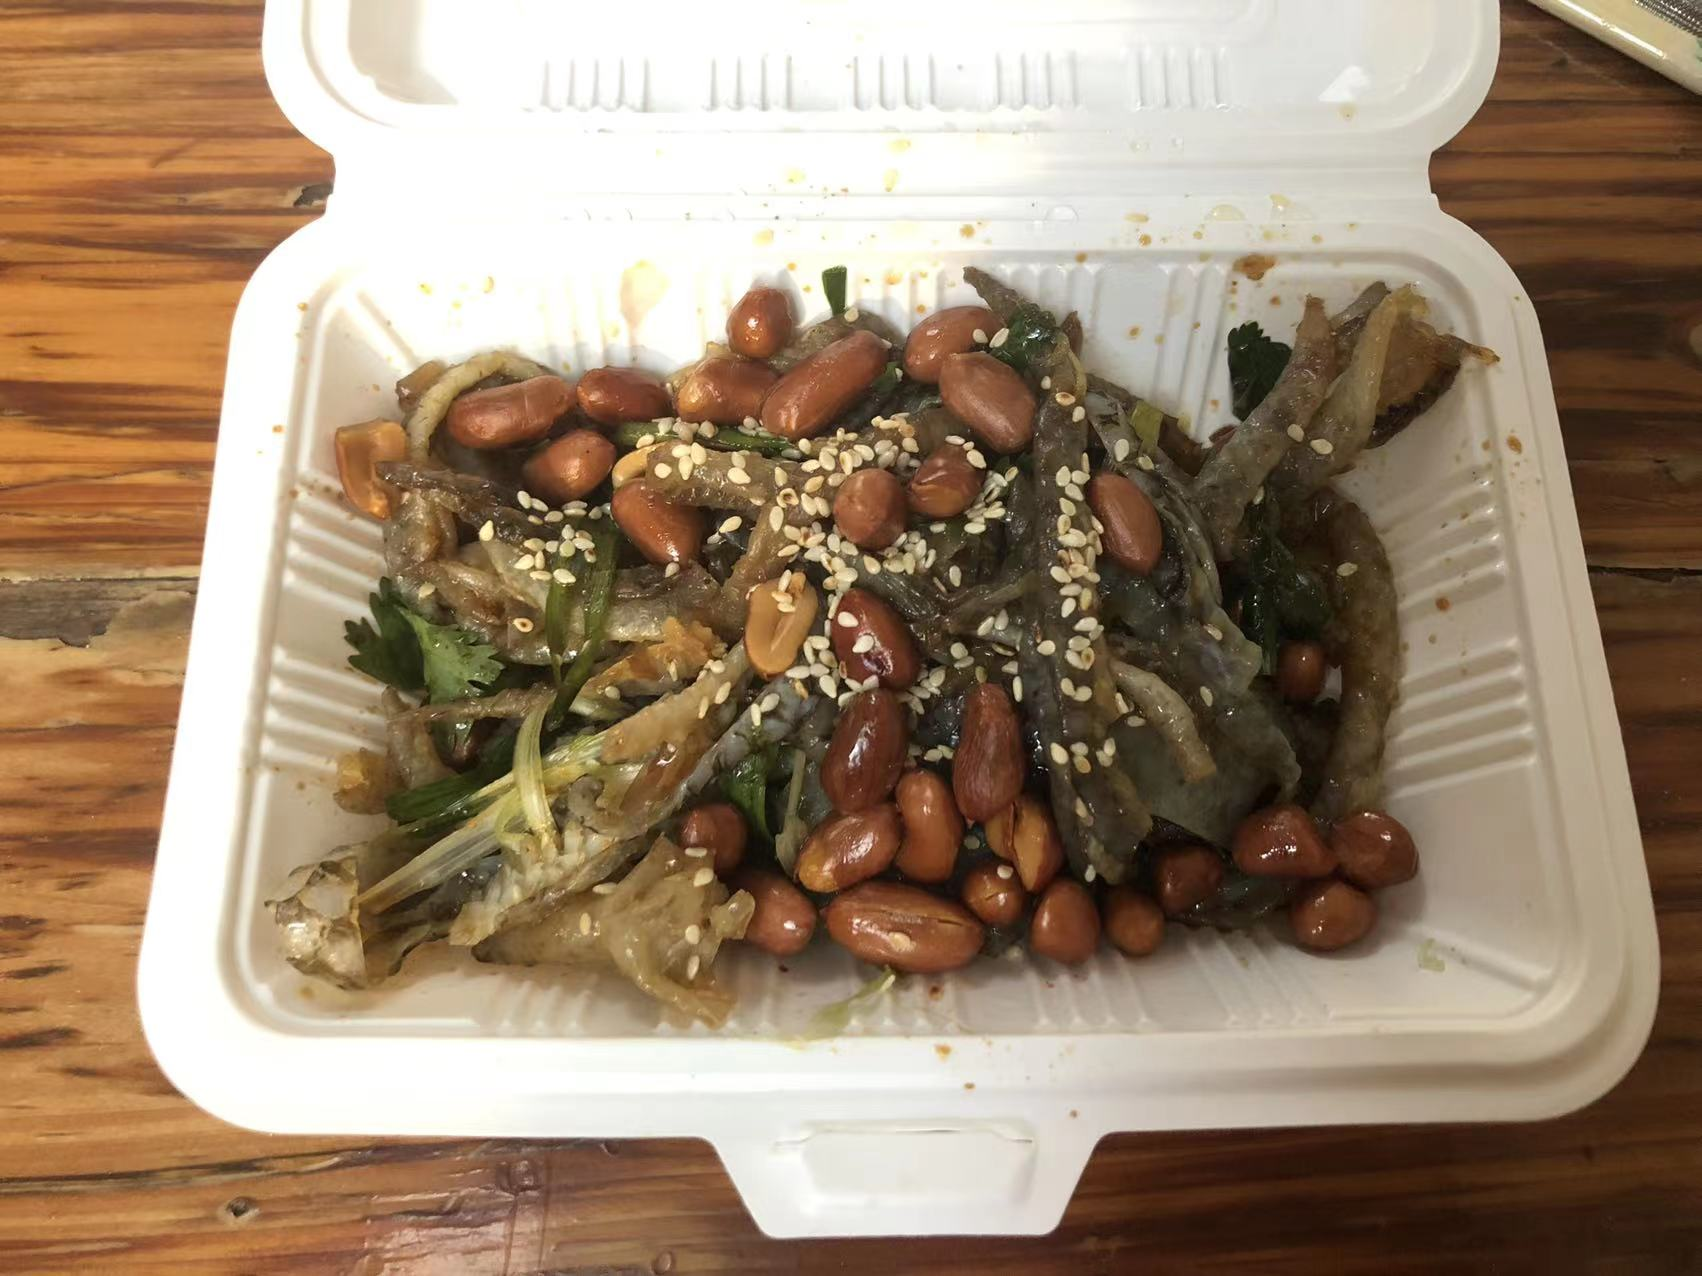
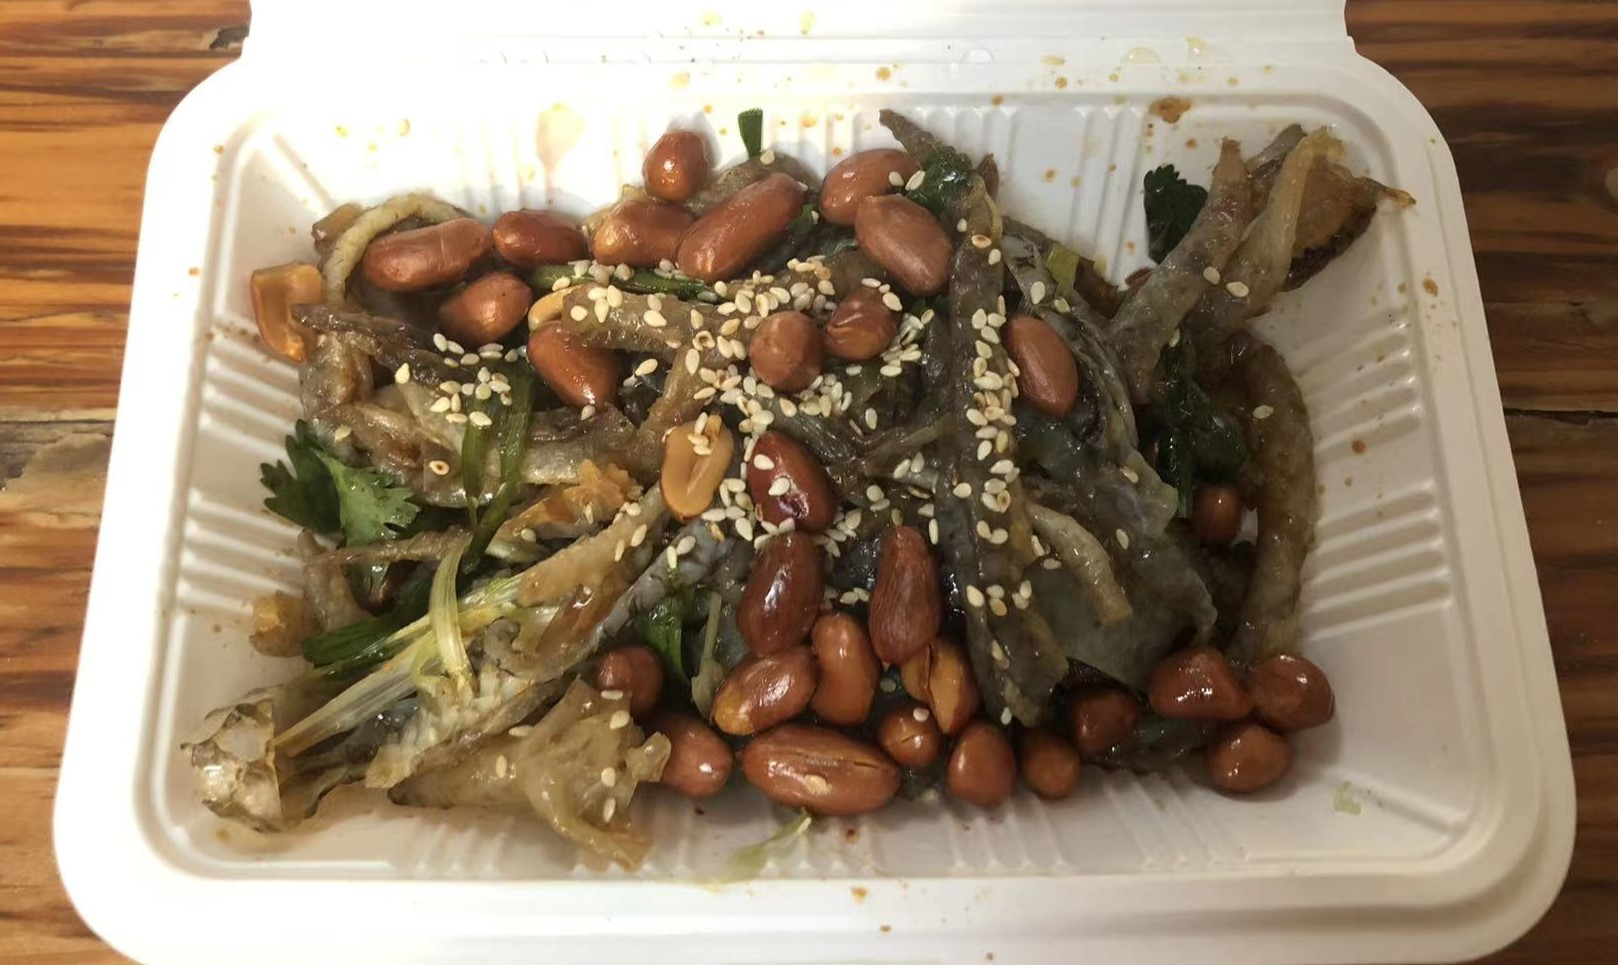
Blog bugs

diff --git a/blog-0710-2022.html b/blog-0710-2022.html
@@ -85,15 +85,19 @@
                     </header> <!-- entry__header -->
 
                     <div class="entry__content-media">
-                        <img src="images/food/pigeon.jpg"
-                             srcset="images/food/pigeon.jpg 1000w,
-                                     images/food/pigeon.jpg 500w"
-                             sizes="(max-width: 1000px) 100vw, 1000px" alt="pigeon">
+                        <img src="images/food/chicken.jpg"
+                             srcset="images/food/chicken.jpg 1000w,
+                                     images/food/chicken.jpg 500w"
+                             sizes="(max-width: 500px) 100vw, 500px" alt="chicken">
                     </div>
 
                     <div class="entry__content">
                         <p class="lead">
-                        Today I will be reviewing some traditional yet exotic Cantonese food.
+                          Over the last few months in Guangzhou, China, I have had the opportunity to try
+                          some unique Cantonese food from all over the city. Some of them are well known
+                          dishes internationally, while some are rather exotic cuisine that are only popular
+                          locally. I will be introducing a few of them here in my blog from my personal
+                          tasting experience.
                         </p>
 
                         <p>
@@ -101,6 +105,13 @@
                         nostrud cupidatat dolor sunt sint sit nisi est eu exercitation
                         incididunt adipisicing veniam.
                         </p>
+
+                        <div class="entry__content-media">
+                            <img src="images/food/pigeon.jpg"
+                                 srcset="images/food/pigeon.jpg 1000w,
+                                         images/food/pigeon.jpg 500w"
+                                 sizes="(max-width: 250px) 100vw, 250px" alt="pigeon">
+                        </div>
 
                         <p>
                         Lorem ipsum Nisi enim est proident est magna occaecat dolore
@@ -194,7 +205,6 @@
                                 <div class="comment__content">
 
                                     <div class="comment__info">
-                                        <div class="comment__author">Yihang Zhang</div>
                                         <div class="comment__author"><a href="https://www.instagram.com/kevin_zhangyihang/" target="_blank" rel="noopener noreferrer">Yihang Zhang</a></div>
 
                                         <div class="comment__meta">

diff --git a/blogs.html b/blogs.html
@@ -85,12 +85,16 @@
 
                     <div class="entry__content">
                         <p>
-                        Today I will be reviewing some traditional yet exotic Cantonese food.
+                          Over the last few months in Guangzhou, China, I have had the opportunity to try
+                          some unique Cantonese food from all over the city. Some of them are well known
+                          dishes internationally, while some are rather exotic cuisine that are only popular
+                          locally. I will be introducing a few of them here in my blog from my personal
+                          tasting experience.
                         </p>
                         <p>
                         <a href="blog-0710-2022.html">Read Full Article</a>
                         </p>
-                        <img src="images/food/pigeon.jpg" alt="pigeon" class="lazyload" style="width:100%">
+                        <img src="images/chicken.jpg" alt="chicken" class="lazyload" style="width:100%">
                     </div>
 
                 </article> <!-- end entry -->
